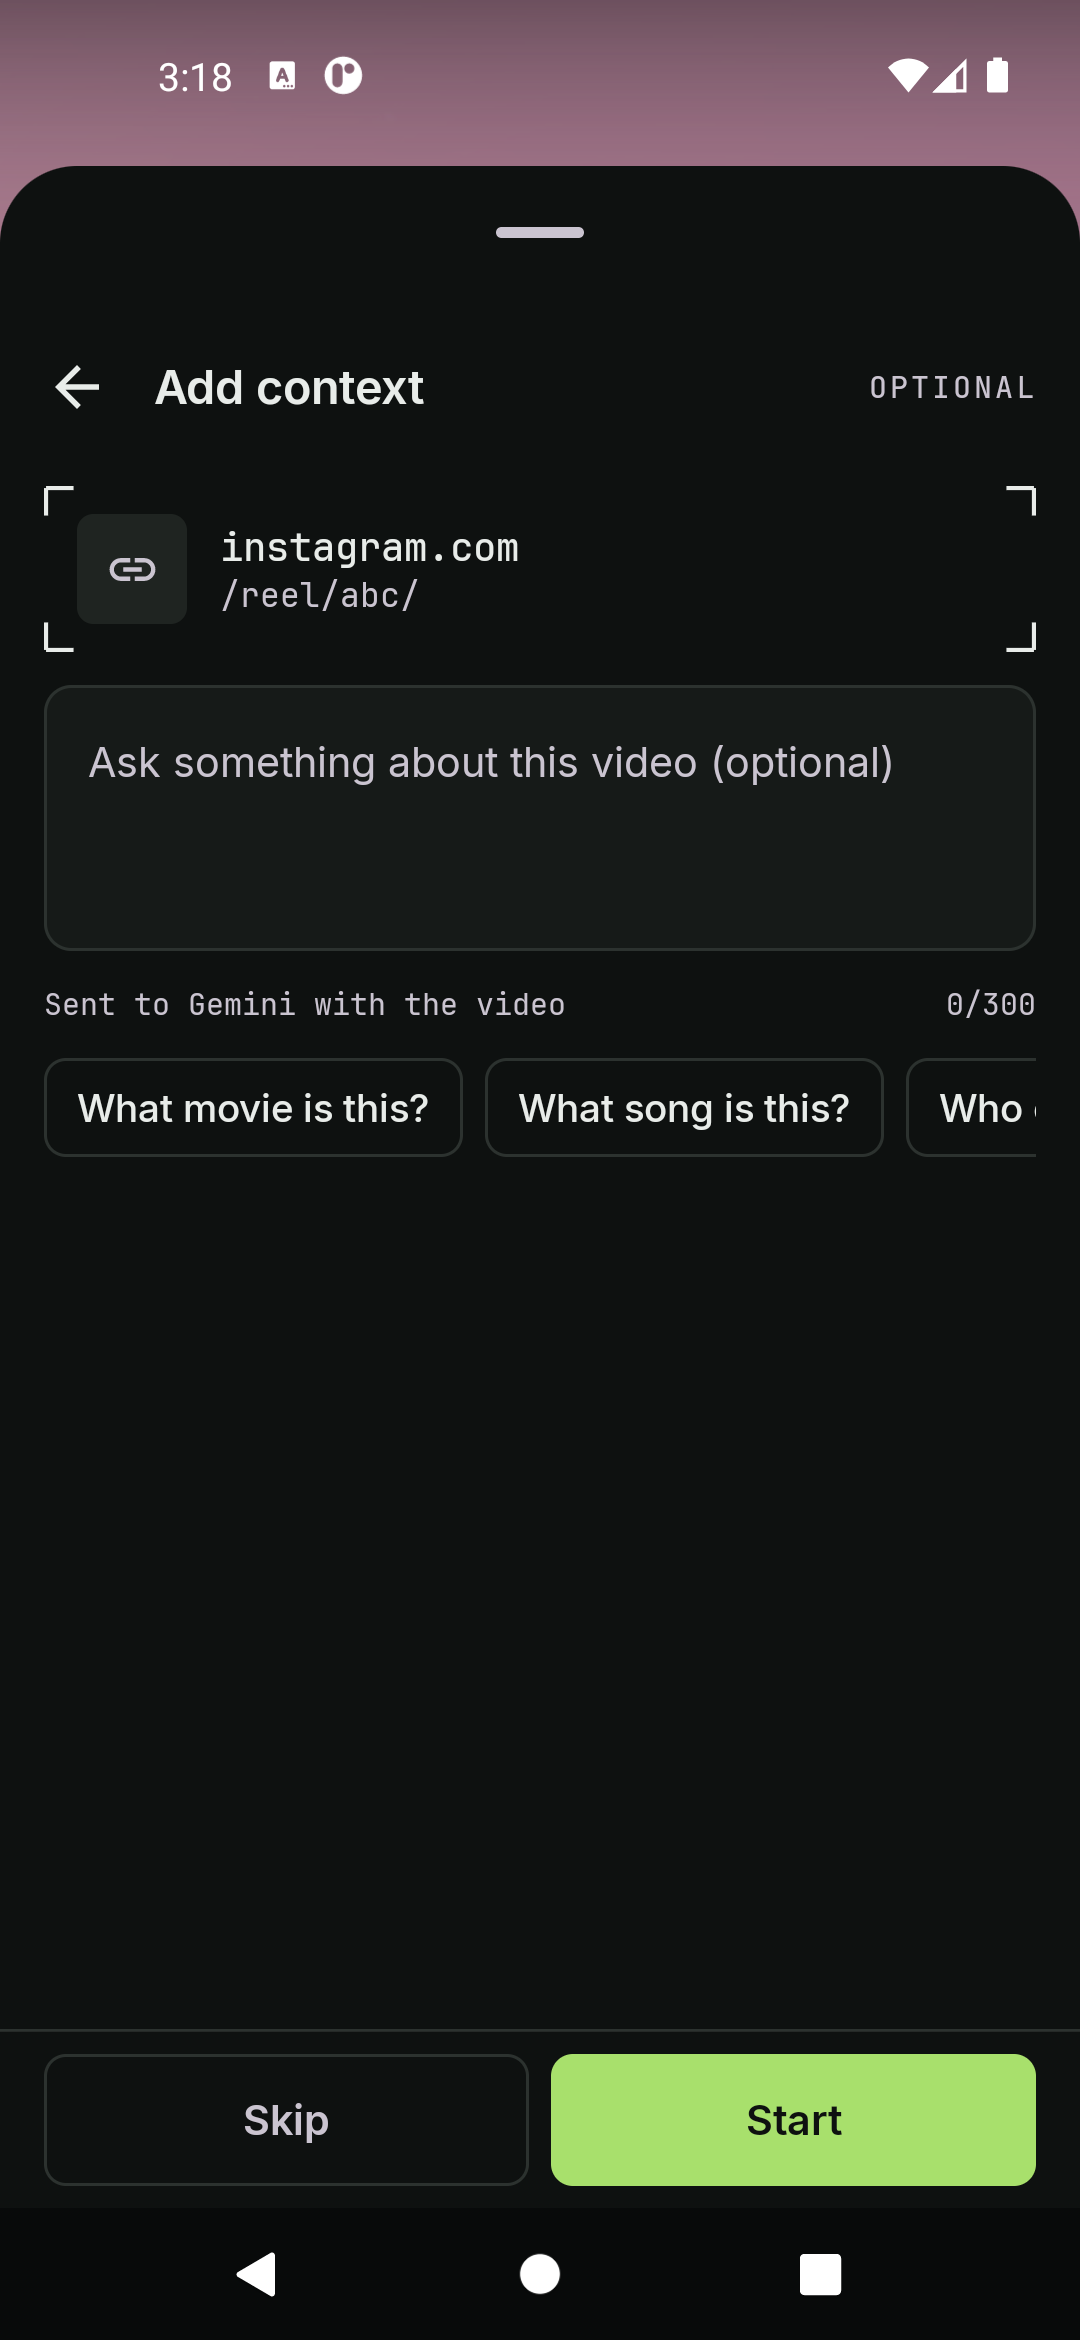
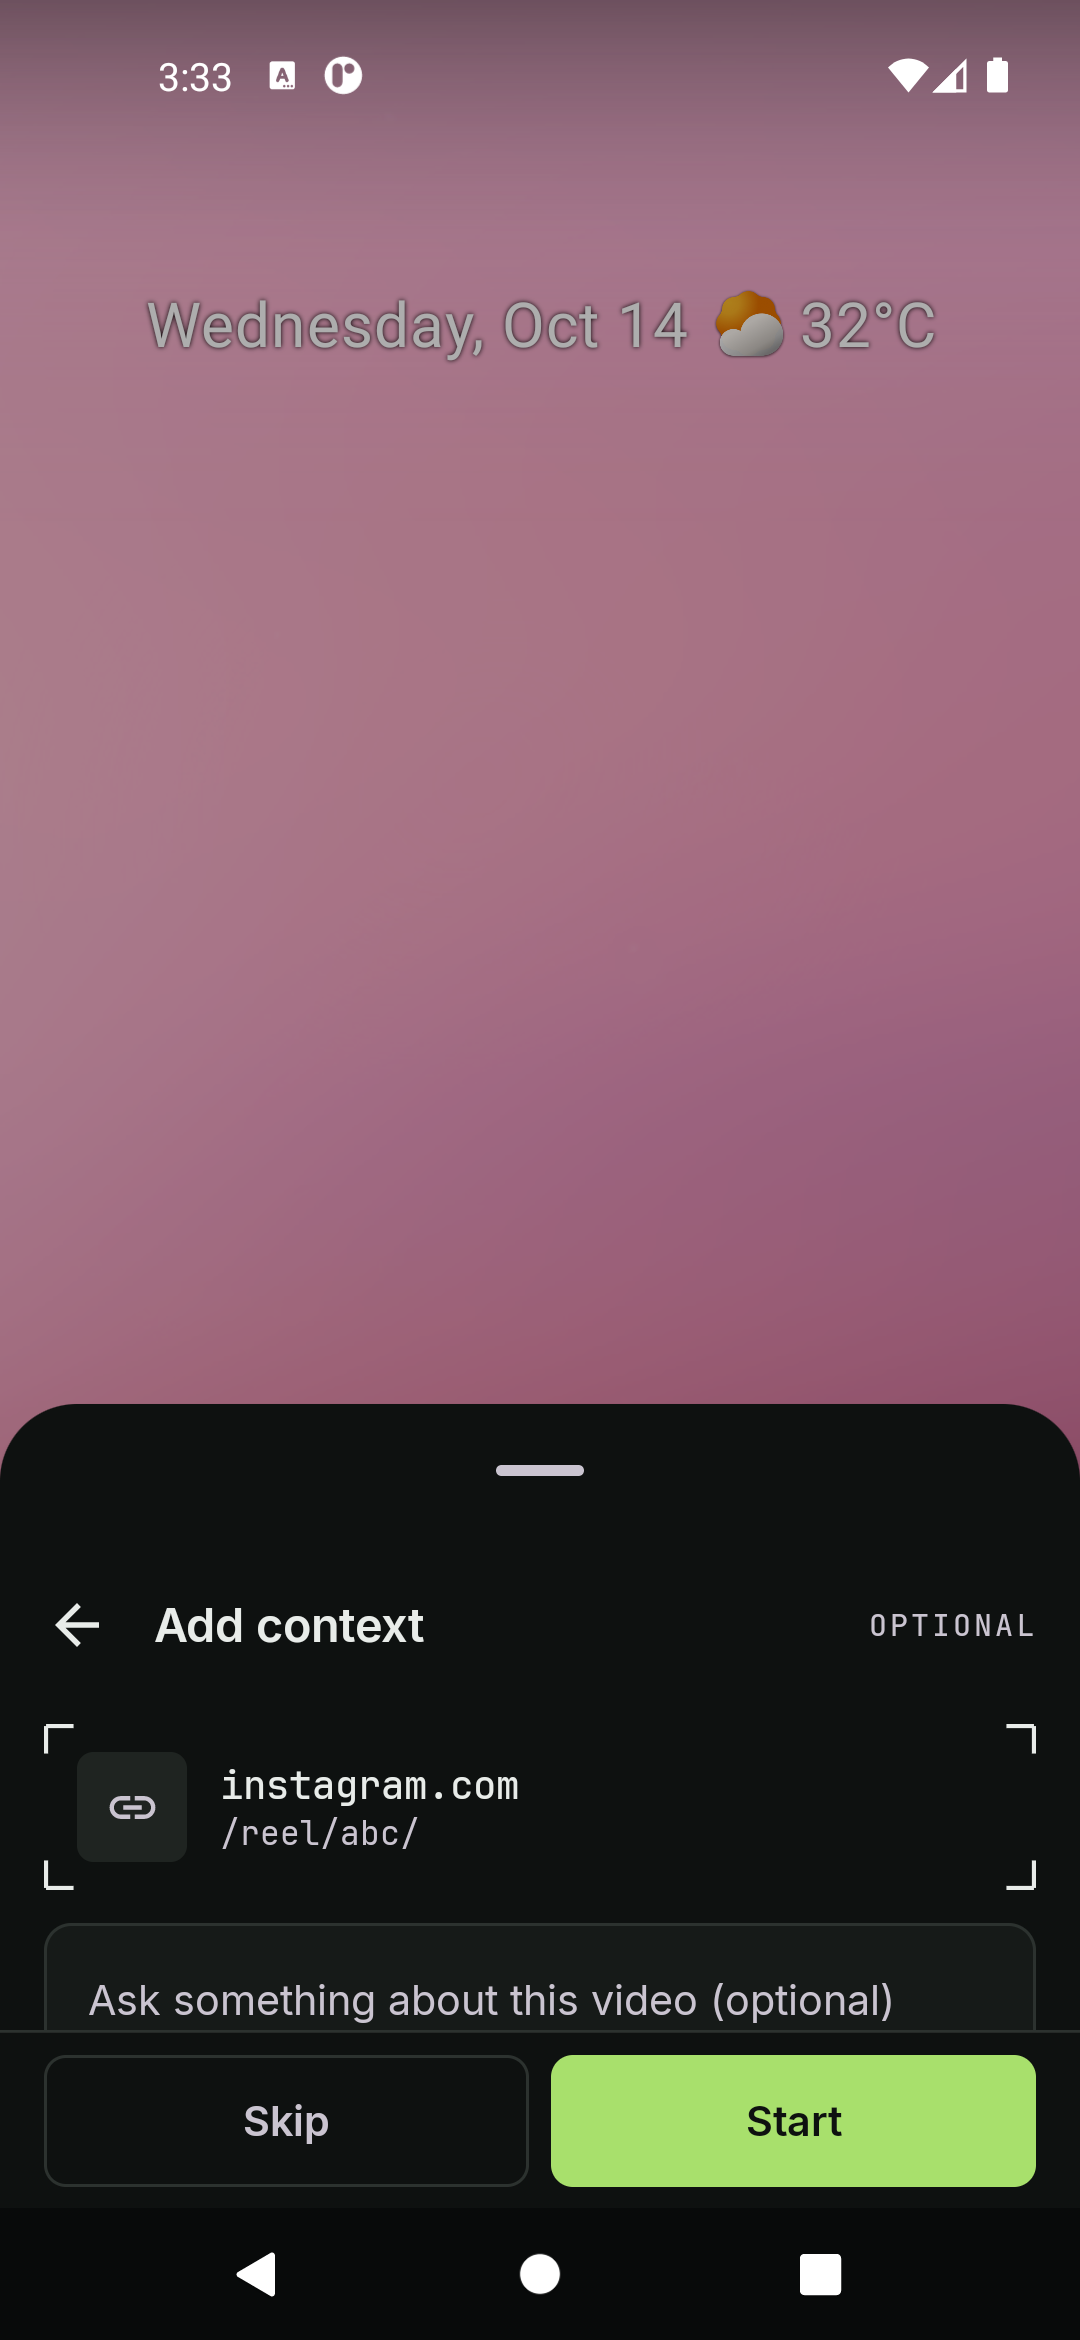
feat(share): the sheet rests at 40% of the screen and drags up to full height
BottomSheetScaffold with a 40% peek replaces the modal sheet (Material's
modal sheet only rests at half height). The sheet keeps a fixed height for its
anchors while its content is laid out in the visible part, so Skip/Start and
the job screen fit the resting height. It expands when the keyboard opens, and
closes when dragged below the resting height or when the dimmed area above it
is tapped.

diff --git a/app/src/main/kotlin/dev/wolzard/recon/ShareActivity.kt b/app/src/main/kotlin/dev/wolzard/recon/ShareActivity.kt
@@ -1,5 +1,23 @@
 package dev.wolzard.recon
 
+import kotlinx.coroutines.flow.drop
+import androidx.compose.ui.platform.LocalDensity
+import androidx.compose.ui.graphics.Color
+import androidx.compose.runtime.snapshotFlow
+import androidx.compose.runtime.LaunchedEffect
+import androidx.compose.foundation.clickable
+import androidx.compose.foundation.background
+import androidx.compose.foundation.layout.navigationBarsPadding
+import androidx.compose.foundation.layout.height
+import androidx.compose.foundation.layout.fillMaxSize
+import androidx.compose.foundation.layout.isImeVisible
+import androidx.compose.foundation.layout.ExperimentalLayoutApi
+import androidx.compose.foundation.layout.WindowInsets
+import androidx.compose.foundation.layout.BoxWithConstraints
+import androidx.compose.material3.rememberStandardBottomSheetState
+import androidx.compose.material3.rememberBottomSheetScaffoldState
+import androidx.compose.material3.SheetValue
+import androidx.compose.material3.BottomSheetScaffold
 import android.Manifest
 import android.content.Context
 import android.content.Intent
@@ -17,16 +35,13 @@ import androidx.compose.foundation.layout.Arrangement
 import androidx.compose.foundation.layout.Box
 import androidx.compose.foundation.layout.Column
 import androidx.compose.foundation.layout.Row
-import androidx.compose.foundation.layout.fillMaxHeight
 import androidx.compose.foundation.layout.fillMaxWidth
 import androidx.compose.foundation.layout.padding
 import androidx.compose.material3.Button
 import androidx.compose.material3.ExperimentalMaterial3Api
 import androidx.compose.material3.MaterialTheme
-import androidx.compose.material3.ModalBottomSheet
 import androidx.compose.material3.Text
 import androidx.compose.material3.TextButton
-import androidx.compose.material3.rememberModalBottomSheetState
 import androidx.compose.runtime.Composable
 import androidx.compose.runtime.CompositionLocalProvider
 import androidx.compose.runtime.DisposableEffect
@@ -167,32 +182,62 @@ class ShareActivity : ComponentActivity() {
     }
 }
 
-@OptIn(ExperimentalMaterial3Api::class)
+/** Resting height of the sheet, as a share of the screen; dragging up opens it to [EXPANDED]. */
+const val PEEK = 0.4f
+private const val EXPANDED = 0.92f
+
+/**
+ * The sheet rests at [PEEK] of the screen and drags up to [EXPANDED]. Its content is laid out in the part that is
+ * actually visible, so Skip/Start and the job screen fit the resting height. It expands by itself when the keyboard
+ * opens, and closes when dragged below the resting height or when the dimmed area above it is tapped.
+ */
+@OptIn(ExperimentalMaterial3Api::class, ExperimentalLayoutApi::class)
 @Composable
 fun ShareSheet(step: SheetStep, onDismiss: () -> Unit, onJob: (String) -> Unit, onOpenApp: (String?) -> Unit) {
-    ModalBottomSheet(
-        onDismissRequest = onDismiss,
-        sheetState = rememberModalBottomSheetState(skipPartiallyExpanded = true),
-        containerColor = MaterialTheme.colorScheme.background,
-        modifier = Modifier.testTag("share_sheet"),
-    ) {
-        Box(Modifier.fillMaxWidth().fillMaxHeight(0.92f)) {
-            when (step) {
-                is SheetStep.Link -> ContextRoute(koinViewModel(key = "ctx-${step.link}") { parametersOf(step.link) }, onOpenJob = onJob, onBack = onDismiss)
-                is SheetStep.VideoFile -> ContextRoute(
-                    koinViewModel(key = "ctx-${step.localUri}") { parametersOf(step.sharedText, step.localUri) }, onOpenJob = onJob, onBack = onDismiss,
-                )
-                is SheetStep.Job -> Column {
-                    OverlayPrompt()
-                    JobRoute(
-                        koinViewModel(key = step.id) { parametersOf(step.id) }, koinInject(),
-                        onBack = onDismiss, onSignIn = { onOpenApp(step.id) }, onSettings = { onOpenApp(null) },
-                    )
+    val sheet = rememberStandardBottomSheetState(initialValue = SheetValue.PartiallyExpanded, skipHiddenState = false)
+    val scaffold = rememberBottomSheetScaffoldState(bottomSheetState = sheet)
+    LaunchedEffect(sheet) { snapshotFlow { sheet.currentValue }.drop(1).collect { if (it == SheetValue.Hidden) onDismiss() } }
+    val imeVisible = WindowInsets.isImeVisible
+    LaunchedEffect(imeVisible) { if (imeVisible) sheet.expand() }
+    BoxWithConstraints(Modifier.fillMaxSize()) {
+        val full = maxHeight
+        val density = LocalDensity.current
+        BottomSheetScaffold(
+            scaffoldState = scaffold,
+            sheetPeekHeight = full * PEEK,
+            sheetContainerColor = MaterialTheme.colorScheme.background,
+            containerColor = Color.Transparent,
+            modifier = Modifier.testTag("share_sheet"),
+            sheetContent = {
+                // Fixed height for the sheet (its anchors depend on it); the content inside follows the visible part.
+                Box(Modifier.fillMaxWidth().height(full * EXPANDED)) {
+                    val visible = runCatching { with(density) { (full.toPx() - sheet.requireOffset()).toDp() } }.getOrDefault(full * PEEK)
+                    Box(Modifier.fillMaxWidth().height((visible - 48.dp).coerceIn(0.dp, full * EXPANDED)).navigationBarsPadding()) {
+                        SheetContent(step, onDismiss, onJob, onOpenApp)
+                    }
                 }
-                SheetStep.Loading, SheetStep.Nothing -> Unit
-            }
+            },
+        ) {
+            // The app behind shows through, dimmed; a tap above the sheet closes it.
+            Box(Modifier.fillMaxSize().background(Color.Black.copy(alpha = 0.32f)).clickable(onClick = onDismiss, indication = null, interactionSource = null))
         }
     }
+}
+
+@Composable
+private fun SheetContent(step: SheetStep, onDismiss: () -> Unit, onJob: (String) -> Unit, onOpenApp: (String?) -> Unit) = when (step) {
+    is SheetStep.Link -> ContextRoute(koinViewModel(key = "ctx-${step.link}") { parametersOf(step.link) }, onOpenJob = onJob, onBack = onDismiss)
+    is SheetStep.VideoFile -> ContextRoute(
+        koinViewModel(key = "ctx-${step.localUri}") { parametersOf(step.sharedText, step.localUri) }, onOpenJob = onJob, onBack = onDismiss,
+    )
+    is SheetStep.Job -> Column {
+        OverlayPrompt()
+        JobRoute(
+            koinViewModel(key = step.id) { parametersOf(step.id) }, koinInject(),
+            onBack = onDismiss, onSignIn = { onOpenApp(step.id) }, onSettings = { onOpenApp(null) },
+        )
+    }
+    SheetStep.Loading, SheetStep.Nothing -> Unit
 }
 
 /**
